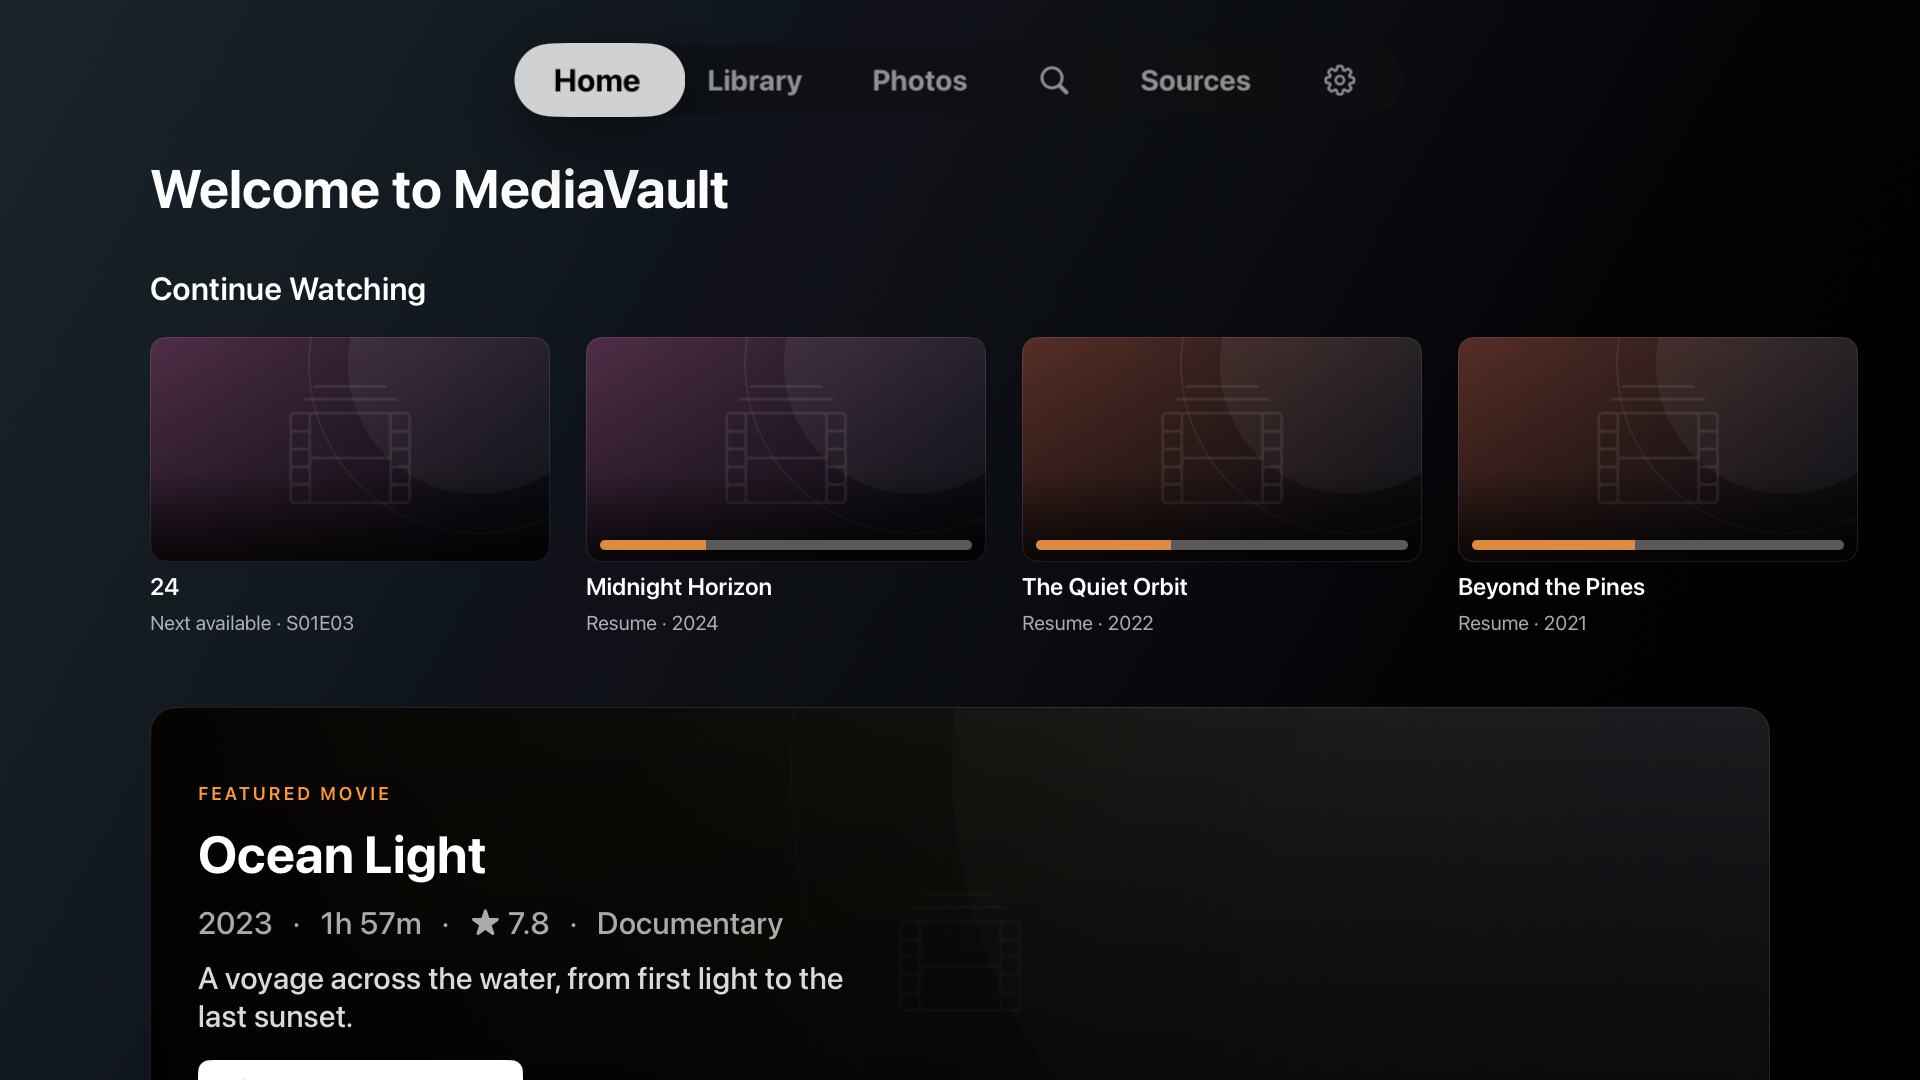
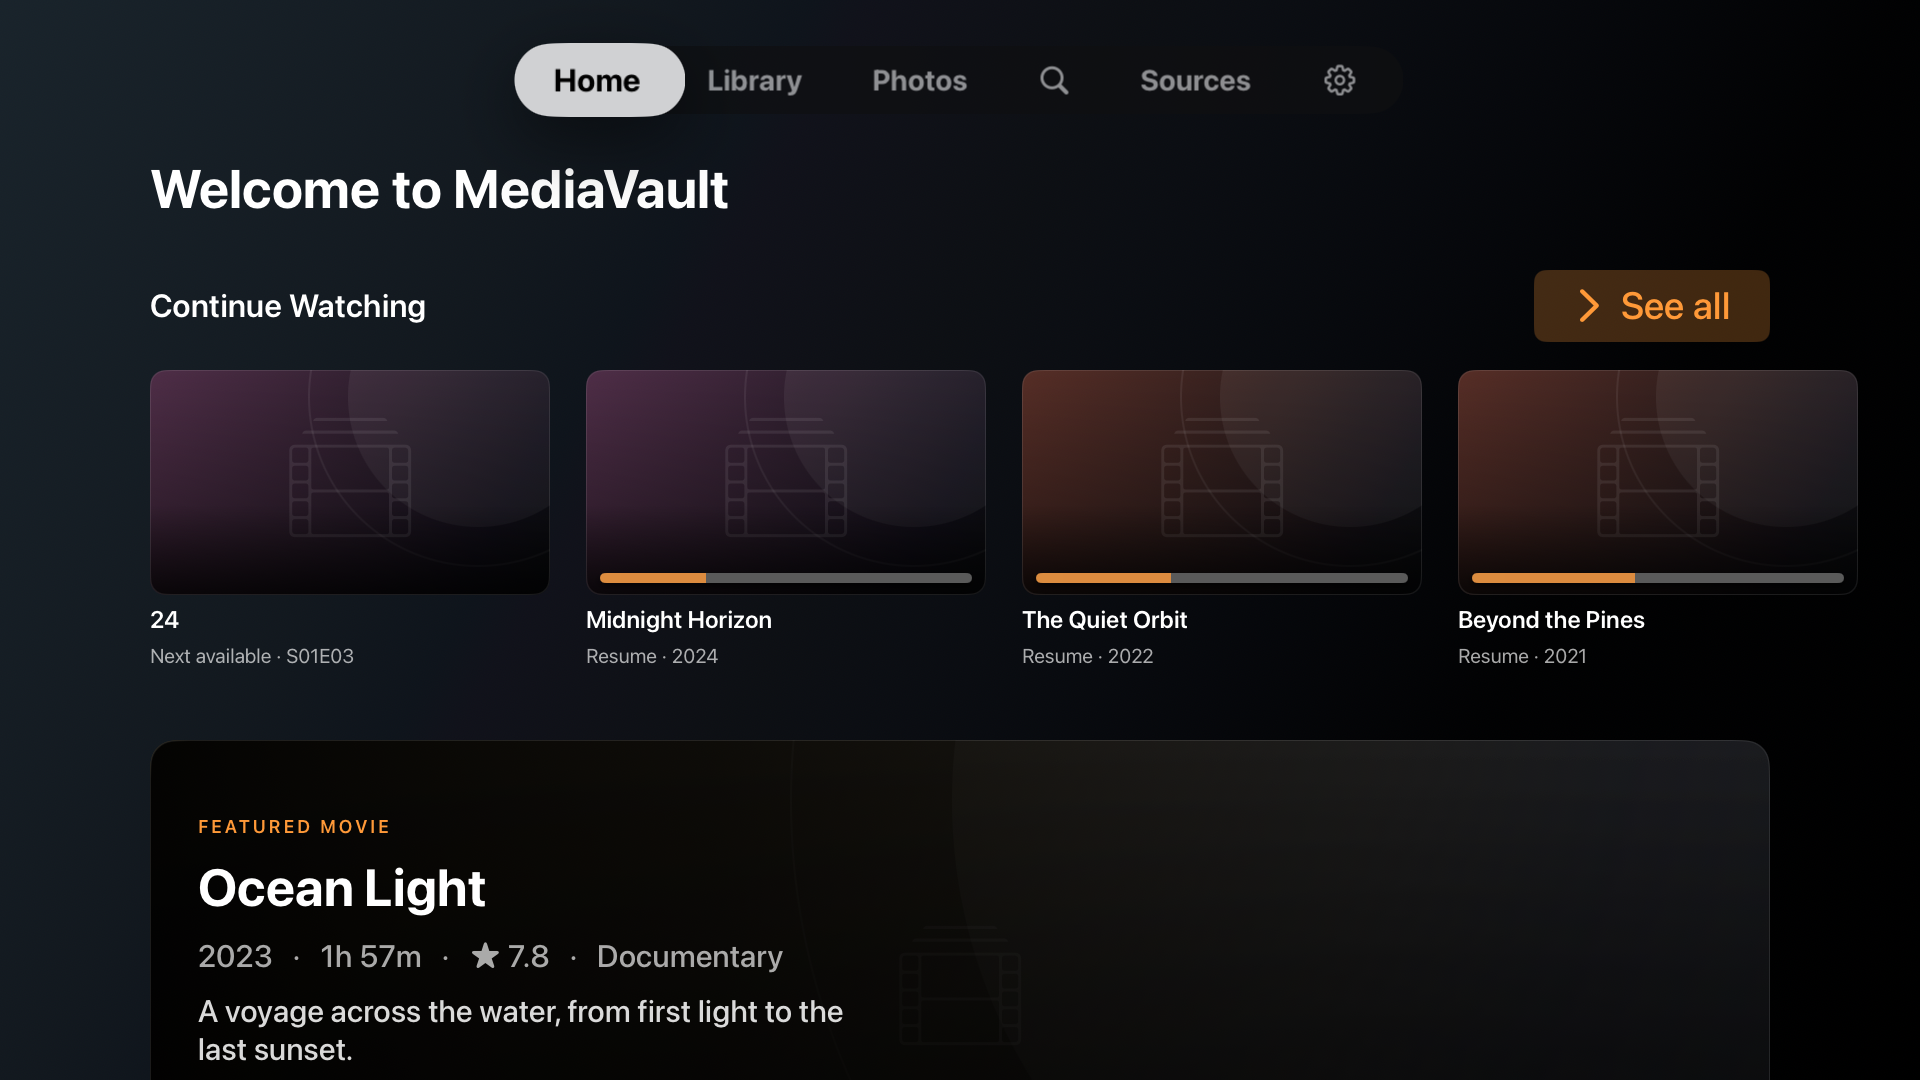
Document verified MediaVault browsing improvements

diff --git a/dist/AGENT-HANDOFF.md b/dist/AGENT-HANDOFF.md
@@ -779,3 +779,55 @@ scan-summary failures are resolved.
 - OAuth was discussed as a possible future feature. No account service or
   authentication flow has been implemented; the intended OAuth use case is
   still to be selected. Current NAS access continues through SMB credentials.
+
+## Infuse comparison and everyday browsing (2026-11-23)
+
+- The owner deferred OAuth and requested easy usability wins from an Infuse
+  comparison. `docs/INFUSE-COMPARISON.md` records existing coverage, official
+  references, small improvements, and larger remaining gaps. No OAuth work was added.
+- Version **1.2.0**, build **4**, adds **See all** to Home shelves on both TVs.
+  Complete collections retain show/season/episode grouping, observe current
+  source exclusions, and do not overwrite saved Library filters or sections.
+  Back restores the launching shelf/card, with a usable fallback if it vanished.
+- Empty Library states offer **Clear filters** or **Open Sources** and explain
+  how to add a title to Watchlist. Resume details show an approximate remaining
+  time, preferring measured file duration over metadata and omitting unknowns.
+- Work was isolated in `.worktrees/mediavault-easy-wins` on
+  `codex/mediavault-easy-wins`, based on development `3aa0f4b`. Root's separate
+  `codex/mediavault-web-video` checkout and the private repository were untouched.
+- Local Android validation passed 157 unit tests, lint, packaging, and all
+  related remote journeys. The new restoration test initially measured scroll
+  position before focus scrolled the button into view; its corrected baseline
+  passed. [Hosted Android validation](https://github.com/dinesh-devkota/mediavault/actions/runs/45222164883)
+  passed all 62 runtime tests with no failures or skips, plus debug/release builds.
+- The owner's `CineVault_TV` emulator received the update with `install -r`,
+  preserving app data. The installed version/build and SHA-256 were verified:
[1 lines of base64/hex data omitted]
+  Both the owner emulator and separate disposable test emulator were closed.
+- [Initial Apple validation](https://github.com/dinesh-devkota/mediavault/actions/runs/45221452741)
+  passed release compilation, core/helper tests, all eight visual previews, and
+  124 of 126 simulator tests. The two new Home journeys exposed a first-visit
+  bug: Watchlist/Unwatched rows tried to populate state from an empty view.
+  Revision `5b33ace` derives their grouped contents directly before rendering.
+- The [second full simulator run](https://github.com/dinesh-devkota/mediavault/actions/runs/45224649692)
+  again passed 124/126 tests. The shelf was present; recordings then exposed
+  skipped header focus and a title immediately returning from its detail screen.
+  Revision `63de3ca` uses full-width focus sections and one persistent Home
+  NavigationPath. Collection origins are consumed once, so ordinary Home movie
+  returns retain native focus. A new model regression covers that distinction.
+- [Focused Apple navigation validation](https://github.com/dinesh-devkota/mediavault/actions/runs/45228660043)
+  passed 11/12 tests without skips, including last-Watchlist removal. The remaining
+  failure came after three consecutive Menu presses in the show journey. Revision
+  `67fa97a` now waits for, and asserts, episode and season focus after each press,
+  matching the existing Search remote test. No production code changed.
+- [Final Apple navigation validation](https://github.com/dinesh-devkota/mediavault/actions/runs/45231530641)
+  passed all **12 tests**, with zero failures or skips, on `67fa97a`: all seven
+  remote UI journeys and five Home collection model regressions. The show journey
+  now verifies restored episode, season, show, and Home focus at each transition.
+  The manual `ui_only` option runs all remote UI tests and Home collection tests;
+  default push/PR validation continues running the full simulator suite.
+  The final change after `63de3ca` was test-only; the earlier full suites covered
+  the unrelated simulator tests. Do not report the focused run as a full-suite
+  pass. Physical Apple TV playback remains unverified.
+- Sample Android full-collection and remaining-time images were inspected and
+  added to the guide. Apple Home/detail images came from the passing preview run.

diff --git a/docs/MEDIA-GUIDE.md b/docs/MEDIA-GUIDE.md
@@ -29,6 +29,12 @@ When resuming a title with a known duration, its detail screen shows approximate
 how much time is left. MediaVault uses the duration recorded by playback first,
 then metadata when needed. Unknown durations do not show an estimate.
 
+Android TV examples from a separate sample library:
+
+![A complete Movies collection with 26 titles and a Back button](screenshots/android-home-collection.png)
+
+![Episode details with Resume, Start Over, and about 43 minutes left](screenshots/android-remaining-time.png)
+
 ## Connect one shared parent folder
 
 On first launch, choose **Find my NAS** on Home. To connect another folder, open
